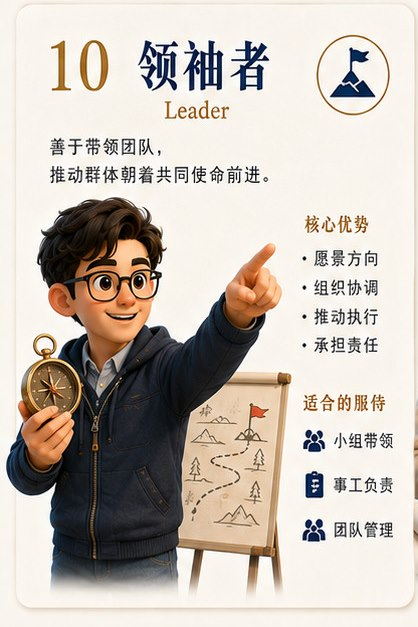
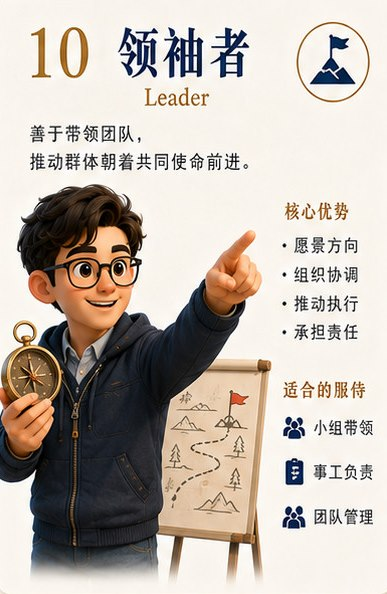
fix: 角色卡图统一重裁 + 详情页角色切换器
- 12 张卡图按固定网格坐标（14px 边距/间距，内收 6px）统一裁切为 387x594，
  消除右侧/底部邻卡溢出与规格不一致
- 角色详情页新增「上一个/下一个」与 12 角色缩略网格，本页内切换查看
- ?role=<key> 可直接预览某角色详情

diff --git a/public/discover.html b/public/discover.html
@@ -128,6 +128,17 @@
   .dcard { padding: 14px 16px; margin-top: 10px; }
   .dcard .lab { font-size: 10px; font-weight: 800; letter-spacing: 1.5px; color: #C1A76A; margin-bottom: 4px; }
   .dcard .core { font-size: 14px; font-weight: 800; color: #14295A; line-height: 1.7; }
+  .dswitch { margin-top: 12px; padding: 12px 12px 10px; border-radius: 16px; background: #fff; border: 1px solid var(--line); }
+  .dnav { display: flex; align-items: center; justify-content: space-between; margin-bottom: 9px; }
+  .dnav span { font-size: 11px; font-weight: 800; color: #667085; }
+  .dnav button { border: 1px solid #E2E5EB; background: #F8FAFF; color: var(--navy); font-size: 11px; font-weight: 800; border-radius: 999px; padding: 5px 11px; cursor: pointer; }
+  .dnav button:active { transform: scale(.97); }
+  .dgrid { display: grid; grid-template-columns: repeat(4, 1fr); gap: 6px; }
+  .dgrid button { border: 1px solid #ECEEF2; border-radius: 10px; padding: 0 0 3px; background: #fff; overflow: hidden; cursor: pointer; text-align: center; }
+  .dgrid button img { width: 100%; display: block; }
+  .dgrid button span { display: block; font-size: 10px; font-weight: 800; color: #475467; padding-top: 3px; }
+  .dgrid button.on { border: 1.5px solid rgba(201,154,69,.7); background: #FBF6EA; }
+  .dgrid button.on span { color: #8A6519; }
   .hero-cards { display: none; }
 
   /* ---- 营销锁定区 ---- */
@@ -208,6 +219,8 @@
     /* 详情页：双栏 */
     #detail .body { display: grid; grid-template-columns: 420px 1fr; gap: 28px; padding: 28px 0 0; align-items: start; }
     #detail .dr .dcard:first-child { margin-top: 0; }
+    .dgrid { grid-template-columns: repeat(6, 1fr); }
+    .dnav span, .dnav button, .dgrid button span { font-size: 12px; }
   }
   /* 桌面：整体放大字号，避免手机尺寸的小字平铺在大屏上 */
   @media (min-width: 1024px) {
@@ -375,7 +388,17 @@
       <span class="groups" style="padding:0"><span id="dGroup"></span></span>
     </div>
     <div class="body">
-      <div class="dl"><img class="rimg" id="dImg" alt="" /></div>
+      <div class="dl">
+        <img class="rimg" id="dImg" alt="" />
+        <div class="dswitch">
+          <div class="dnav">
+            <button onclick="stepDetail(-1)">‹ 上一个</button>
+            <span>切换查看其他角色</span>
+            <button onclick="stepDetail(1)">下一个 ›</button>
+          </div>
+          <div class="dgrid" id="dGrid"></div>
+        </div>
+      </div>
       <div class="dr">
       <div class="card dcard"><div class="lab">CORE MOTIVATION · 核心动机</div><div class="core" id="dCore"></div><p class="disclaimer" id="dQ" style="margin-top:6px"></p></div>
       <div class="card dcard">
@@ -553,11 +576,32 @@ function openDetail(k){
   document.getElementById('dQ').textContent = GROUPS[a.g].q;
   fill('dStr', a.s); document.getElementById('dRisk').innerHTML = a.r.map(function(r){ return '<p class="risk">· '+r+'</p>'; }).join('');
   fill('dMin', a.m); fill('dEq', a.e);
-  show('detail');
+  currentDetail = k;
+  renderDetailGrid();
+  if (document.getElementById('detail').classList.contains('hidden')) show('detail'); else window.scrollTo({ top: 0, behavior: 'smooth' });
+}
+var currentDetail = null;
+function renderDetailGrid(){
+  var g = document.getElementById('dGrid');
+  if (!g.childElementCount) {
+    ARCH.forEach(function(a){
+      var b = document.createElement('button'); b.setAttribute('data-k', a.k);
+      b.innerHTML = '<img src="' + img(a.k) + '" alt="' + a.l + '" loading="lazy" /><span>' + a.l + '</span>';
+      b.onclick = function(){ openDetail(a.k); };
+      g.appendChild(b);
+    });
+  }
+  Array.prototype.forEach.call(g.children, function(b){ b.className = b.getAttribute('data-k') === currentDetail ? 'on' : ''; });
+}
+function stepDetail(dir){
+  var i = ARCH.map(function(a){ return a.k; }).indexOf(currentDetail);
+  openDetail(ARCH[(i + dir + ARCH.length) % ARCH.length].k);
 }
 function closeDetail(){ show(detailFrom); }
 // 预览用：?demo=1 直接以示例答案进入结果页（便于设计核对）
 if (location.search.indexOf('demo=1') >= 0) { answers = QS.map(function(q, i){ return (i % 2) ? 2 : 3; }); finish(); }
+var roleParam = location.search.match(/[?&]role=([a-z]+)/);
+if (roleParam) openDetail(roleParam[1]);
 </script>
 </body>
 </html>
